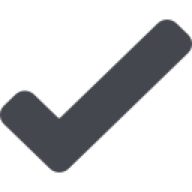
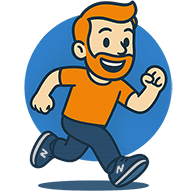
update fav

diff --git a/web/index.html b/web/index.html
@@ -7,6 +7,9 @@
     <title>Todo — веб</title>
     <link rel="manifest" href="manifest.webmanifest" />
     <link rel="apple-touch-icon" sizes="180x180" href="../icons/check-ios.png" />
+    <link rel="icon" type="image/png" sizes="32x32" href="../icons/favicon_io/favicon-32x32.png" />
+    <link rel="icon" type="image/png" sizes="16x16" href="../icons/favicon_io/favicon-16x16.png" />
+    <link rel="shortcut icon" href="../icons/favicon_io/favicon.ico" />
     <link rel="stylesheet" href="../styles/theme-light.css" />
     <link rel="stylesheet" href="../styles/theme-dark.css" />
     <link rel="stylesheet" href="../styles/app.css" />

diff --git a/web/auth/index.html b/web/auth/index.html
@@ -5,6 +5,9 @@
     <meta name="viewport" content="width=device-width, initial-scale=1" />
     <title>To Do — Авторизация</title>
     <link rel="stylesheet" href="./styles.css" />
+    <link rel="icon" type="image/png" sizes="32x32" href="../icons/favicon_io/favicon-32x32.png" />
+    <link rel="icon" type="image/png" sizes="16x16" href="../icons/favicon_io/favicon-16x16.png" />
+    <link rel="shortcut icon" href="../icons/favicon_io/favicon.ico" />
   </head>
   <body>
     <main class="auth-page">

diff --git a/sidepanel.html b/sidepanel.html
@@ -8,6 +8,9 @@
     <link rel="stylesheet" href="styles/theme-light.css" />
     <link rel="stylesheet" href="styles/theme-dark.css" />
     <link rel="stylesheet" href="styles/app.css" />
+    <link rel="icon" type="image/png" sizes="32x32" href="icons/favicon_io/favicon-32x32.png" />
+    <link rel="icon" type="image/png" sizes="16x16" href="icons/favicon_io/favicon-16x16.png" />
+    <link rel="shortcut icon" href="icons/favicon_io/favicon.ico" />
   </head>
   <body>
     <div class="app-shell">

diff --git a/web/sw.js b/web/sw.js
@@ -8,7 +8,12 @@ const ASSETS = [
   '../styles/app.css',
   '../scripts/sidepanel.js',
   '../scripts/sync.js',
-  '../scripts/sync-config.js'
+  '../scripts/sync-config.js',
+  '../icons/favicon_io/favicon-32x32.png',
+  '../icons/favicon_io/favicon-16x16.png',
+  '../icons/favicon_io/android-chrome-192x192.png',
+  '../icons/favicon_io/android-chrome-512x512.png',
+  '../icons/favicon_io/favicon.ico'
 ];
 
 self.addEventListener('install', (event) => {

diff --git a/scripts/sidepanel.js b/scripts/sidepanel.js
@@ -93,7 +93,6 @@ async function bootstrapAuthContext() {
     } catch (error) {
       console.warn('Todo sync: unable to resolve auth context', error);
     }
-
     if (!assigned) {
       syncConfig.userId = '';
       storageKey = STORAGE_KEY;
@@ -102,6 +101,7 @@ async function bootstrapAuthContext() {
       } catch (error) {
         /* ignore */
       }
+      return;
     }
     return;
   }
